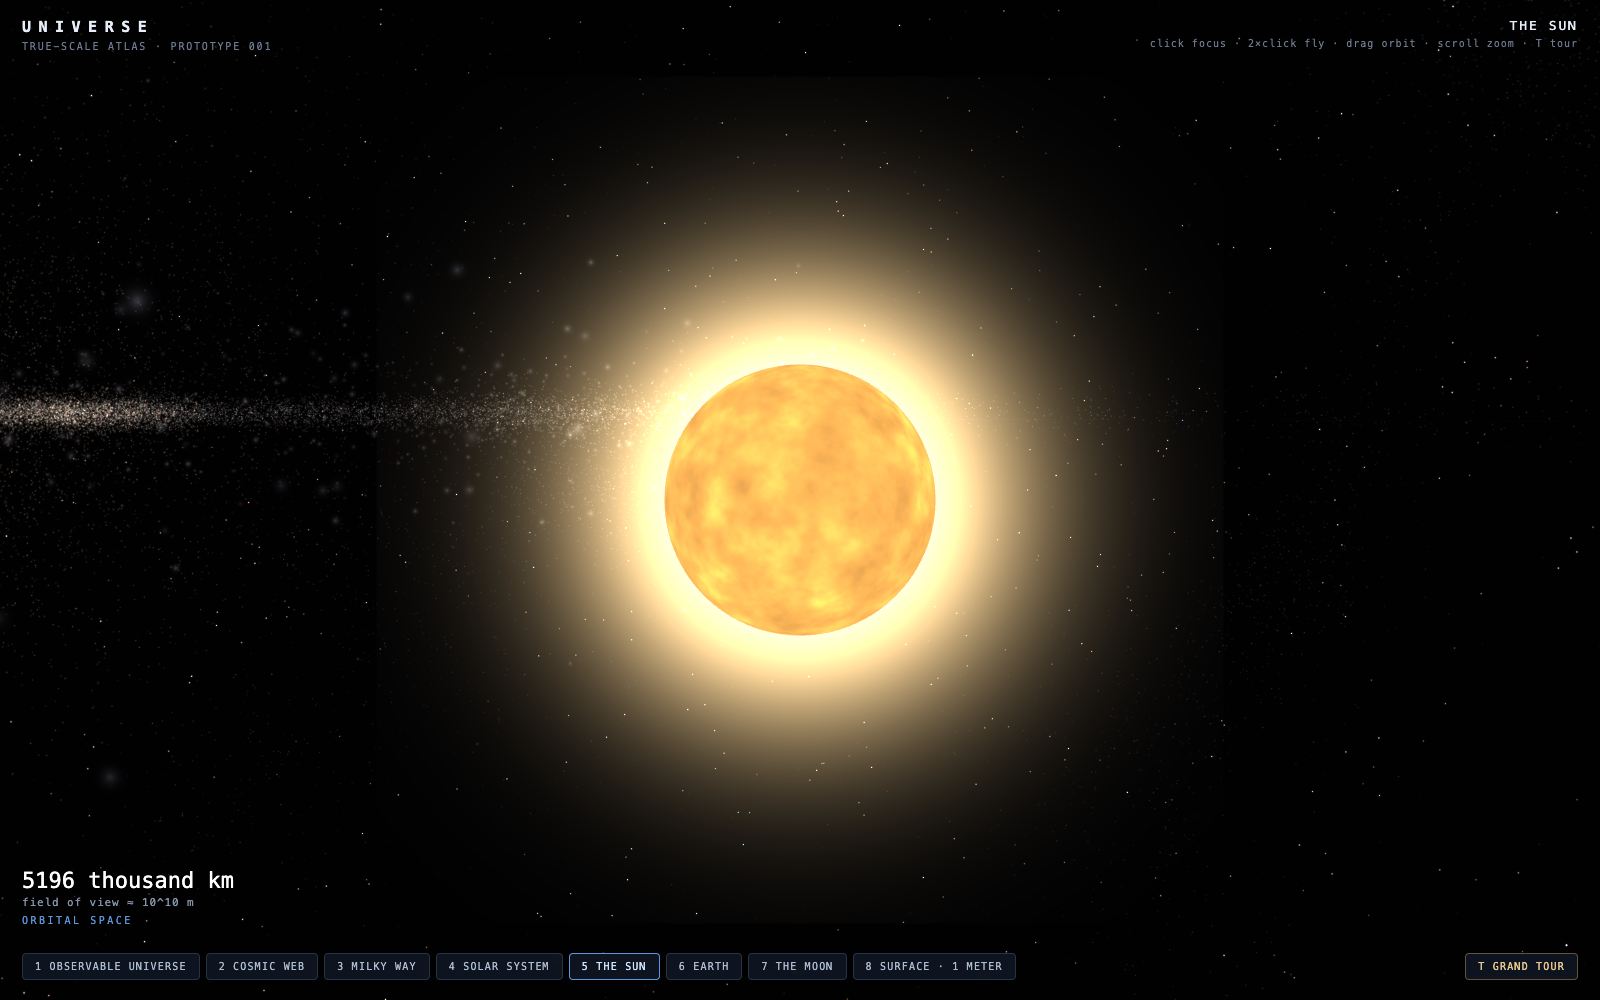
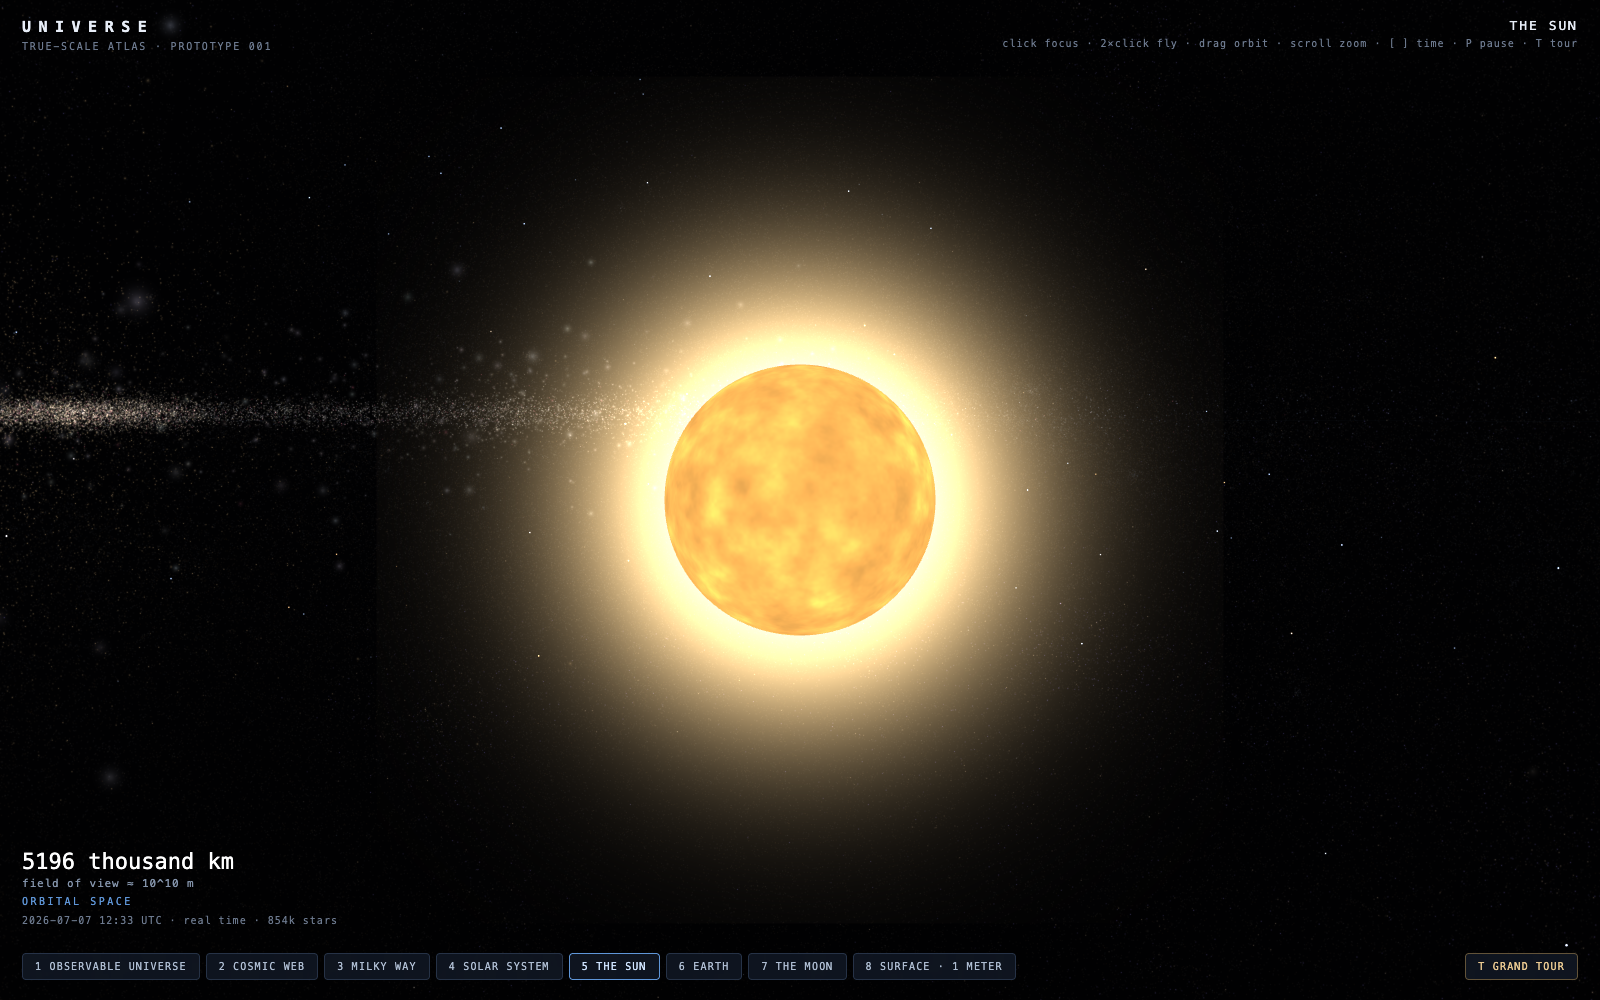
Deep star catalog: 854k real stars streamed as binary tiles
The solar neighborhood is now measured, not imagined. 853,929 stars
from the ATHYG v3.2 catalog (Tycho-2 + Gaia DR3, complete to magnitude
11) replace the 4,500 procedural filler stars.

Pipeline (scripts/generate-star-tiles.mjs): parses an ATHYG CSV,
converts equatorial parsecs to the scene's galactic-oriented sun frame,
packs 16 bytes per star (f32 xyz + u8 rgb + u8 encoded absolute
magnitude), sorts brightest-first, and writes 120k-star chunks plus a
manifest to public/stars/ (13 MB total, committed - GitHub Pages serves
the tiles, no extra hosting). Apparent magnitude and physical sprite
size are reconstructed at load time from absmag + distance.

Runtime (src/stars.ts): fetches the manifest and streams chunks
sequentially, so the brightest sky appears first and fills in while you
explore. The HUD shows the streamed star count.

Rendering: point groups gain a fadeExtent - star fields fade with
camera distance beyond ~6e18 m so a million additive sprites collapsing
into a few pixels don't bloom to white; the procedural galaxy still
provides the from-a-distance glow. (The group uniform's spare w channel
carries the fade factor.)

Changed region(s): [[0.0, 0.837, 0.1562, 0.93], [0.8438, 0.031, 0.875, 0.062], [0.0312, 0.403, 0.0625, 0.434]]

diff --git a/src/stars.ts b/src/stars.ts
@@ -1,0 +1,57 @@
+// Streams the binary star tiles produced by scripts/generate-star-tiles.mjs.
+// Chunks are brightest-first; each is decoded into point-sprite instance data
+// (pos, size, color, intensity — 8 floats/star) and handed over as it lands,
+// so the sky fills in progressively without blocking startup.
+
+const R_SUN = 6.957e8;
+const PC = 3.0857e16;
+
+interface Manifest {
+  total: number;
+  chunks: { file: string; count: number }[];
+}
+
+export async function streamStars(
+  baseUrl: string,
+  onChunk: (instances: Float32Array<ArrayBuffer>) => void,
+): Promise<number> {
+  let manifest: Manifest;
+  try {
+    const res = await fetch(`${baseUrl}manifest.json`);
+    if (!res.ok) return 0;
+    manifest = (await res.json()) as Manifest;
+  } catch {
+    return 0; // no tiles available (e.g. not generated yet) — not fatal
+  }
+
+  let loaded = 0;
+  for (const chunk of manifest.chunks) {
+    const res = await fetch(`${baseUrl}${chunk.file}`);
+    if (!res.ok) break;
+    const view = new DataView(await res.arrayBuffer());
+    const n = Math.floor(view.byteLength / 16);
+    const out = new Float32Array(n * 8);
+    for (let i = 0; i < n; i++) {
+      const o = i * 16;
+      const x = view.getFloat32(o, true);
+      const y = view.getFloat32(o + 4, true);
+      const z = view.getFloat32(o + 8, true);
+      const absMag = view.getUint8(o + 15) / 8 - 15;
+      const distPc = Math.max(Math.hypot(x, y, z) / PC, 0.1);
+      const appMag = absMag + 5 * (Math.log10(distPc) - 1);
+      const lum = Math.pow(10, (4.83 - absMag) / 2.5);
+      const j = i * 8;
+      out[j] = x;
+      out[j + 1] = y;
+      out[j + 2] = z;
+      out[j + 3] = Math.min(Math.max(R_SUN * Math.sqrt(lum), 4e8), 2e11);
+      out[j + 4] = view.getUint8(o + 12) / 255;
+      out[j + 5] = view.getUint8(o + 13) / 255;
+      out[j + 6] = view.getUint8(o + 14) / 255;
+      out[j + 7] = Math.min(Math.max(1.35 - 0.3 * appMag, 0.02), 2.0);
+    }
+    onChunk(out);
+    loaded += n;
+  }
+  return loaded;
+}

diff --git a/src/scene.ts b/src/scene.ts
@@ -25,6 +25,10 @@ export interface PointGroup {
   frame: Frame;
   pos: V3;
   data: Float32Array<ArrayBuffer>;
+  // Star fields fade out as the camera pulls beyond this extent, so a million
+  // additive sprites collapsing into a few pixels don't bloom to white (the
+  // procedural galaxy provides the from-a-distance glow instead).
+  fadeExtent?: number;
 }
 export interface OrbitLine {
   frame: Frame;
@@ -226,26 +230,8 @@ export function buildUniverse(): Universe {
   meshes.push(box([-3.5, 0.5, 4], [0.5, 0.5, 0.5], [0.62, 0.63, 0.66]));
   meshes.push(box([1.5, 2, -7], [0.4, 2, 0.4], [0.55, 0.58, 0.64])); // 4 m obelisk
 
-  // ---- Local stars (within ~100 pc of the Sun) ----
-  {
-    const n = 4500;
-    const d = new Float32Array(n * 8);
-    for (let i = 0; i < n; i++) {
-      const o = i * 8;
-      d[o] = gaussian(rand) * 8e17;
-      d[o + 1] = gaussian(rand) * 8e17;
-      d[o + 2] = gaussian(rand) * 8e17;
-      d[o + 3] = 2e9 * (0.5 + rand());
-      const t = rand();
-      const c: [number, number, number] =
-        t < 0.12 ? [0.65, 0.75, 1.0] : t < 0.5 ? [0.95, 0.95, 1.0] : t < 0.82 ? [1.0, 0.88, 0.68] : [1.0, 0.6, 0.45];
-      d[o + 4] = c[0];
-      d[o + 5] = c[1];
-      d[o + 6] = c[2];
-      d[o + 7] = 0.25 + rand() * 0.6;
-    }
-    groups.push({ frame: sunFrame, pos: [0, 0, 0], data: d });
-  }
+  // (The old procedural "local stars" sprinkle is gone: the streamed ATHYG
+  // tiles — 850k+ real Tycho-2/Gaia stars — fill the solar neighborhood now.)
 
   // ---- The 300 brightest REAL stars (HYG catalog): true positions,
   // ---- colors from B-V, brightness from apparent magnitude ----
@@ -311,7 +297,7 @@ export function buildUniverse(): Universe {
         });
       }
     });
-    groups.push({ frame: sunFrame, pos: [0, 0, 0], data: d });
+    groups.push({ frame: sunFrame, pos: [0, 0, 0], data: d, fadeExtent: 8e18 });
   }
   meshes.push(...starMeshes);
 

diff --git a/src/main.ts b/src/main.ts
@@ -20,6 +20,7 @@ import {
 import { Frame, relPos, reexpress } from './frames';
 import { Renderer, FrameData } from './renderer';
 import { buildUniverse, Target } from './scene';
+import { streamStars } from './stars';
 import { Hud } from './hud';
 
 const FOV = (60 * Math.PI) / 180;
@@ -107,6 +108,14 @@ async function start(): Promise<void> {
     renderer.updatePointGroup(groupIndex[u.planetSpriteGroup], u.groups[u.planetSpriteGroup].data);
   }
   updateBodies(); // targets must sit at their real positions before any ?goto jump
+
+  // ---- stream the ATHYG star tiles (brightest chunks first) ----
+  let starCount = 0;
+  void streamStars(`${import.meta.env.BASE_URL}stars/`, (instances) => {
+    groupIndex.push(renderer.addPointGroup(instances));
+    u.groups.push({ frame: u.sunFrame, pos: [0, 0, 0], data: instances, fadeExtent: 6e18 });
+    starCount += instances.length / 8;
+  });
 
   // ---- camera state ----
   const cam = {
@@ -568,6 +577,7 @@ async function start(): Promise<void> {
       gd[0] = rel[0];
       gd[1] = rel[1];
       gd[2] = rel[2];
+      gd[3] = g.fadeExtent !== undefined ? Math.min(g.fadeExtent / Math.max(len(rel), 1), 1) : 1;
       data.groups.push({ index: groupIndex[i], data: gd });
     });
 
@@ -580,6 +590,7 @@ async function start(): Promise<void> {
       simMs,
       SPEED_LABELS[speedIndex],
       paused,
+      starCount,
     );
     requestAnimationFrame(frame);
   }

diff --git a/src/hud.ts b/src/hud.ts
@@ -75,6 +75,7 @@ export class Hud {
     simMs: number,
     speedLabel: string,
     paused: boolean,
+    starCount: number,
   ): void {
     const w = formatWidth(viewWidth);
     this.widthEl.textContent = w.main;
@@ -84,7 +85,8 @@ export class Hud {
     const d = new Date(simMs);
     const pad = (n: number) => String(n).padStart(2, '0');
     const date = `${d.getUTCFullYear()}-${pad(d.getUTCMonth() + 1)}-${pad(d.getUTCDate())} ${pad(d.getUTCHours())}:${pad(d.getUTCMinutes())} UTC`;
-    this.timeEl.textContent = paused ? `${date} · paused` : `${date} · ${speedLabel}`;
+    const stars = starCount > 0 ? ` · ${Math.round(starCount / 1000)}k stars` : '';
+    this.timeEl.textContent = (paused ? `${date} · paused` : `${date} · ${speedLabel}`) + stars;
     for (const [i, b] of this.buttons) b.classList.toggle('active', i === activeTarget);
     this.tourBtn.textContent = touring ? 'T STOP TOUR' : 'T GRAND TOUR';
   }

diff --git a/src/shaders.ts b/src/shaders.ts
@@ -161,7 +161,7 @@ struct FOut {
 export const POINTS_WGSL =
   COMMON +
   /* wgsl */ `
-struct Grp { origin : vec4f };
+struct Grp { origin : vec4f }; // xyz: group origin rel camera, w: intensity fade
 @group(1) @binding(0) var<uniform> P : Grp;
 
 struct VOut {
@@ -198,7 +198,7 @@ struct VOut {
   o.pos = clip;
   o.uv = vec2f(ux, uy);
   o.col = pcol;
-  o.inten = pint;
+  o.inten = pint * P.origin.w;
   return o;
 }
 

diff --git a/README.md b/README.md
@@ -61,9 +61,10 @@ jumps straight to the Milky Way, [`?goto=jupiter`](https://chrisjz.github.io/uni
 to any planet, and `&dist=6e20` sets the camera distance in meters — deep
 links into a 10²⁷-meter scene.
 
-The sky is real: the 300 brightest stars come from the HYG catalog with their
-true 3D positions, colors derived from their measured B–V indices, and
-brightness from apparent magnitude. Five of them are destinations —
+The sky is real: **854,000 stars** stream in progressively from binary tiles
+built out of the ATHYG catalog (Tycho-2 + Gaia DR3) — true 3D positions,
+colors from measured B–V indices, brightness from apparent magnitude, 16
+bytes per star. Five of them are destinations —
 [`?goto=sirius`](https://chrisjz.github.io/universe/?goto=sirius),
 [`?goto=alpha-centauri`](https://chrisjz.github.io/universe/?goto=alpha-centauri),
 [`?goto=vega`](https://chrisjz.github.io/universe/?goto=vega),
@@ -116,7 +117,8 @@ src/
 - [x] Scroll-zoom auto-retargeting (zoom _toward what's next_, hands-free)
 - [x] Real stars: the 300 brightest (HYG catalog), with five named star destinations
 - [x] Click-to-focus: planets, moons, and every named star are clickable destinations
-- [ ] Full Gaia DR3 star catalog, streamed as hierarchical LOD point tiles
+- [x] Deep star catalog: 854k real stars (ATHYG: Tycho-2 + Gaia DR3), streamed as binary tiles
+- [ ] Full Gaia DR3 (1.8B sources) via hierarchical spatial LOD tiles
 - [ ] Real deep-sky structure (SDSS/2MASS galaxies, cosmic-web survey data)
 - [x] Time: real orbital motion (mean-longitude ephemeris, adjustable clock, `?speed=`)
 - [ ] Earth terrain via map tiles at the bottom of the zoom
@@ -136,10 +138,15 @@ npm run build     # tsc --noEmit && vite build
 
 ## Data
 
-Star positions, magnitudes, and color indices come from the
-[HYG Database](https://github.com/astronexus/HYG-Database) (CC BY-SA 4.0) —
-a merger of Hipparcos, Yale Bright Star, and Gliese. Regenerate
-`src/data/brightstars.ts` with `node scripts/generate-stars.mjs <hyg.csv>`.
+Star data comes from two catalogs by [astronexus](https://github.com/astronexus)
+(both CC BY-SA 4.0):
+
+- [HYG](https://github.com/astronexus/HYG-Database) (Hipparcos + Yale + Gliese)
+  powers the 300 brightest stars and the named destinations —
+  `node scripts/generate-stars.mjs <hyg.csv>` regenerates `src/data/brightstars.ts`.
+- [ATHYG](https://github.com/astronexus/ATHYG-Database) (Tycho-2 + Gaia DR3)
+  powers the 854k-star deep sky — `node scripts/generate-star-tiles.mjs <athyg.csv>`
+  regenerates the binary tiles in `public/stars/`.
 
 ## License
 